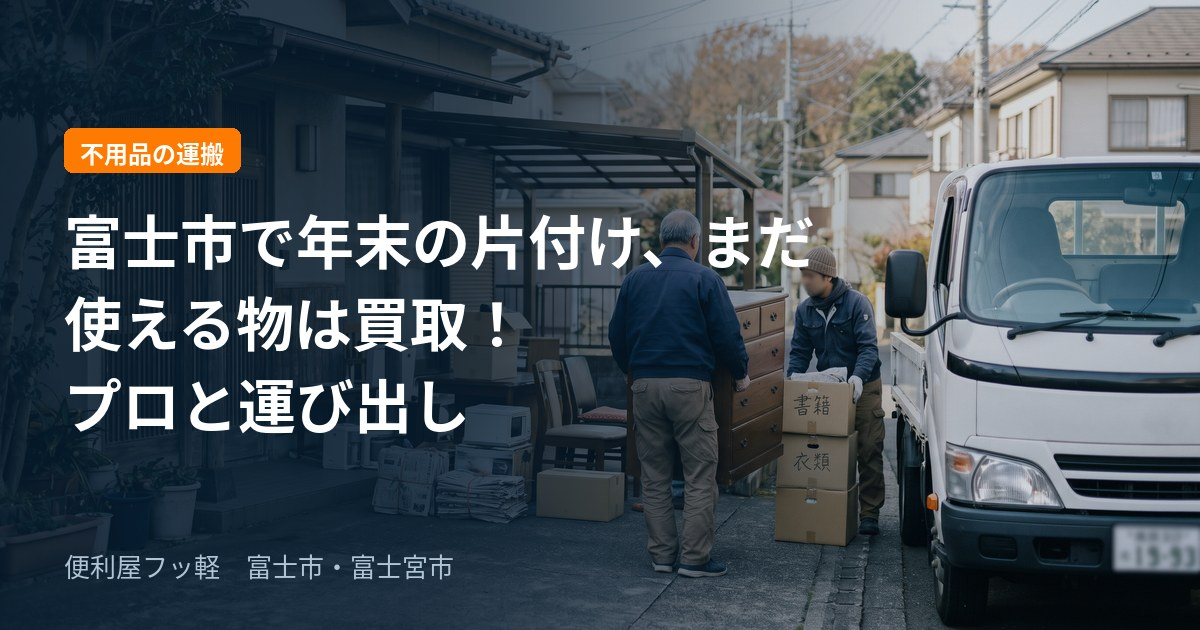
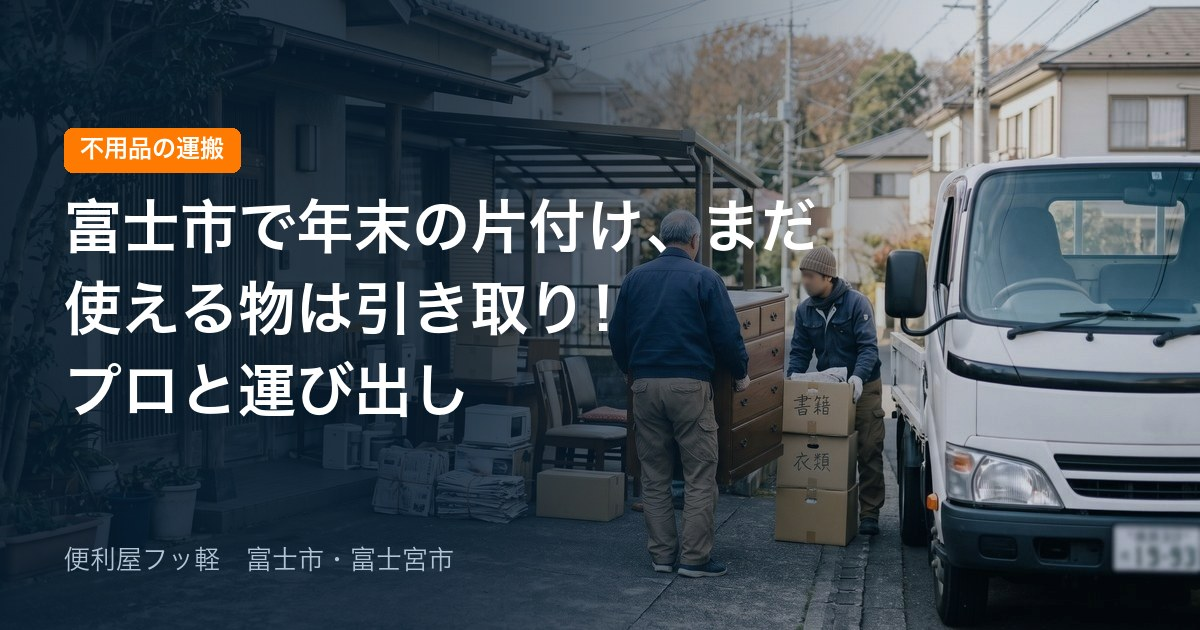
HP側の残り：構造化データ・記事ページの相談の一文・利用規約・llms.txt と、今日出た年末の片付けの記事
- index.html の説明「不用品の運搬と買取」→「不用品の運搬とまだ使えるものの引き取り」（料金表と構造化データの名前は #457 で済み）
- build-blog.mjs の相談の一文「運び出し」「買取」「出し方のご案内」→「まだ使えるものの引き取り」
- 利用規約（/kiyaku/）「まだ使えるものの買取・引き取り」→「まだ使えるものの引き取り」
- llms.txt（AIが読む案内）も同じ
- 11/20 の自動の記事（古い狙い「まだ使えるものは買取」で書かれた）を引き取りに。題名の画像も作り直した。
  同じ文の「提携している回収業者」「私たちが許可を持つ回収業者と連携して」（フッ軽が許可を持つと読める語順）も直した

diff --git a/public/kiyaku/index.html b/public/kiyaku/index.html
@@ -29,7 +29,7 @@ a{color:#0f172a}
 <h2>3. 許認可の範囲</h2>
 <ul>
 <li>貨物軽自動車運送事業（届出済み）として、荷物の運搬をお受けしています。</li>
-<li>古物商許可（静岡県公安委員会 第49110A000757号）により、まだ使えるものの買取・引き取りをお受けしています。</li>
+<li>古物商許可（静岡県公安委員会 第49110A000757号）により、まだ使えるものの引き取りをお受けしています。</li>
 <li><strong>一般廃棄物収集運搬業の許可は持っていません。</strong>そのため、<b>当社がごみの収集・処分を行うことはありません。</b>ごみとして出すぶんは、<b>許可を持つ業者と一緒に</b>片付けます（当社は段取りと現場のとりまとめを行います）。自治体での出し方もご案内します。<b>液体・汚泥・汚物・医療にかかわるものは、お受けできません。</b></li>
 </ul>
 

diff --git a/index.html b/index.html
@@ -53,7 +53,7 @@
     "ふっかる",
     "便利屋フッ軽"
   ],
-  "description": "静岡県富士市の便利屋。草むしり・草刈り、家具の組み立て・解体・再組立、物置の設置・解体・移設、高圧洗浄、不用品の運搬と買取などに対応します。代表が最初から最後まで担当します。",
+  "description": "静岡県富士市の便利屋。草むしり・草刈り、家具の組み立て・解体・再組立、物置の設置・解体・移設、高圧洗浄、不用品の運搬とまだ使えるものの引き取りなどに対応します。代表が最初から最後まで担当します。",
   "url": "https://fukkaru.creo-sumai.jp/",
   "telephone": "+81-545-78-3704",
   "address": {
